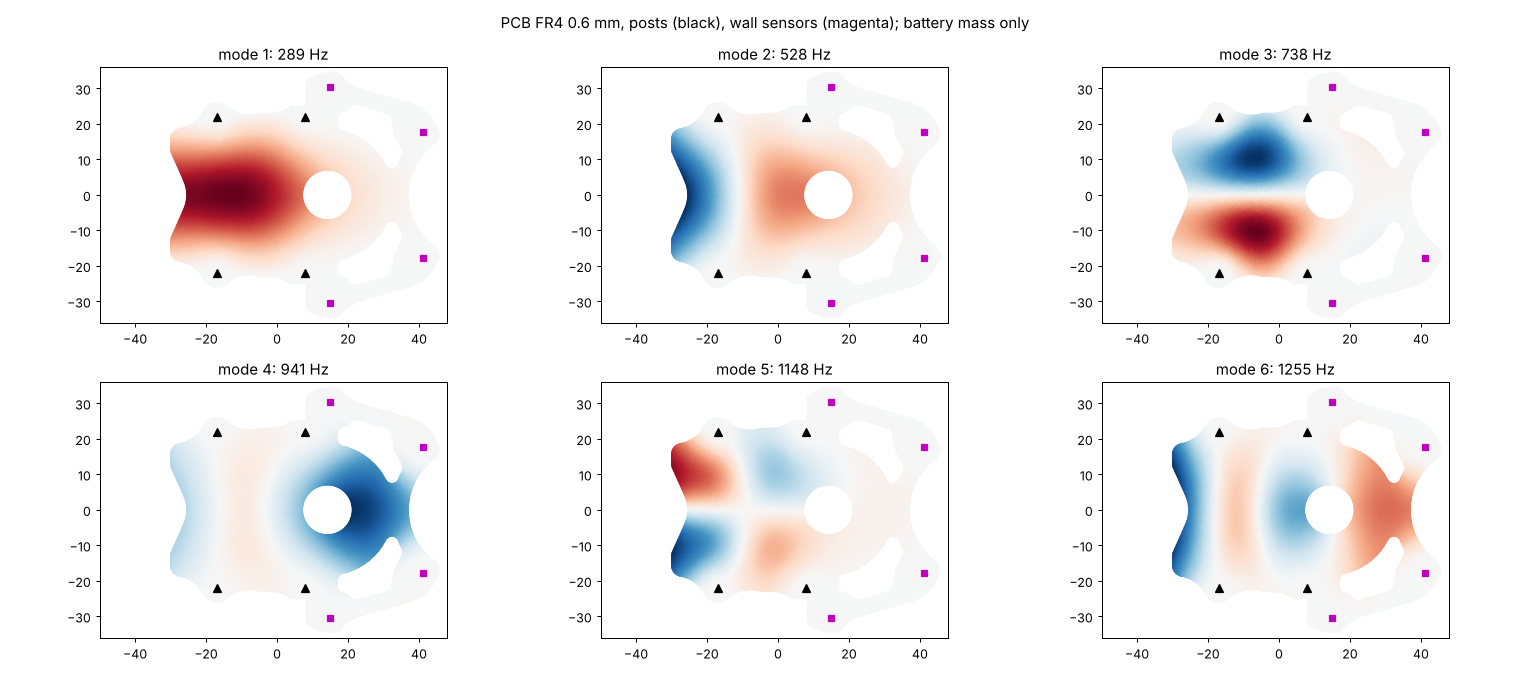
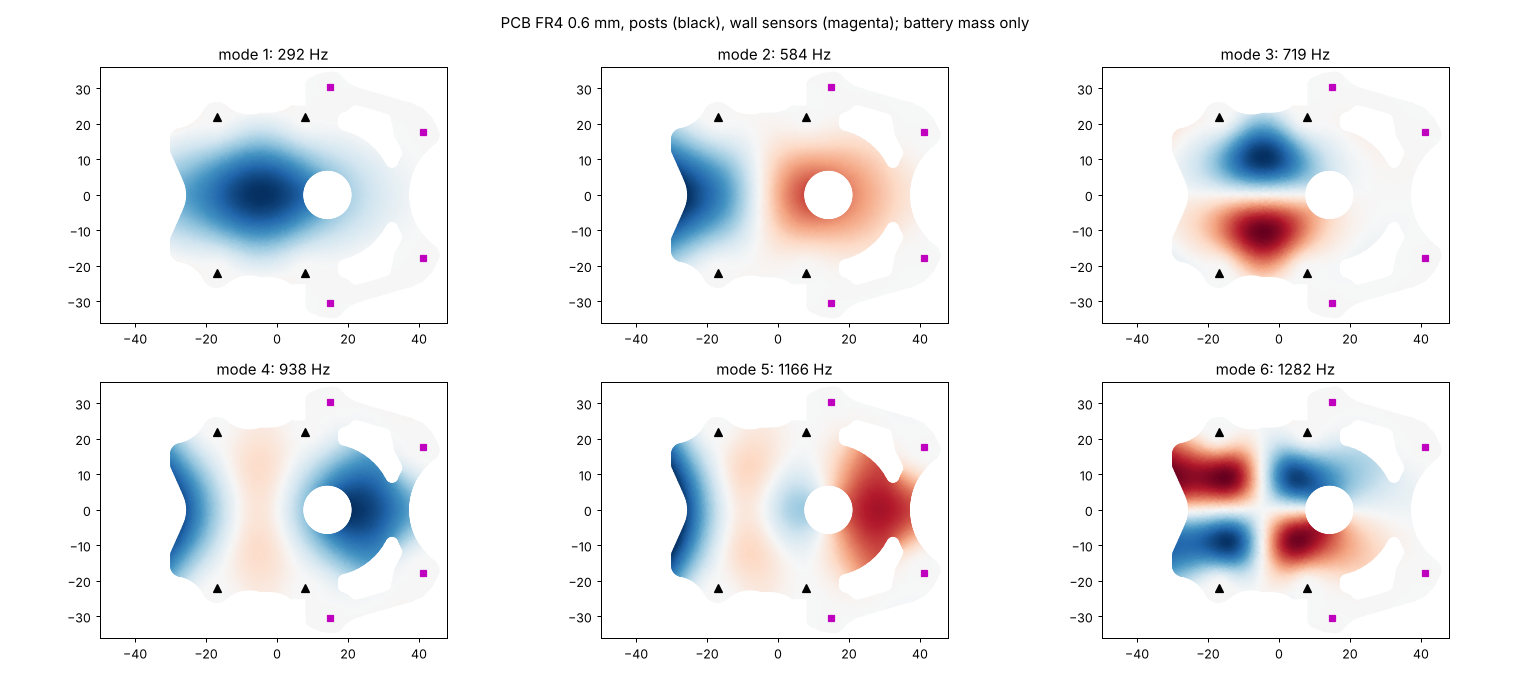
電池を5mm前へ(中心 x −10 → −5)
- 重心 x −0.57 → +0.74mm(車軸の前)、慣性モーメント 274 → 263 g·cm²
- 基板の外形は変わらない(電池は基板の上に全部載る)。基板の DXF の REF の電池の枠を更新
- 基板の振動(ホルダを当てた形)1次 289 → 292Hz

Claude-Session: https://claude.ai/code/session_0156Q4g8mrzo4MjueC94bbUc

diff --git a/mechanical/vehicle/pcb_shape.py b/mechanical/vehicle/pcb_shape.py
@@ -41,7 +41,7 @@ VER = 'v16'
 FAN = (dz.FAN_X, 0.0)
 HUB_HOLE = 7.0          # ファンのハブ(半径5.35、z 16.0 まで)とモーターを通す穴の半径
 HOLE = 2.2              # M2 の通し穴
-REAR, FRONT = -30.0, 47.5        # 後ろの縁(電池の後ろの端 −21.25 から約9mm。LED を並べる)、前の縁
+REAR, FRONT = -30.0, 47.5        # 後ろの縁(LED を並べる。電池の後ろの端は v16 まで −21.25、2026-10-31 から −16.25)、前の縁
 FRAME_MARGIN = 3.0      # 外形はフレームの外形と平行に 3mm 内側(v8 は 1.5mm)
 NOTCH_C, NOTCH_R = (51.0, 0.0), 20.0   # 前の切り欠き(クワガタの腕の間)の円弧。x 31 まで(ファンの輪の前の端は x 31.7。v8 は半径 19)
 REAR_Y = 26.5           # 後ろ(車輪より後ろ)の横の縁 |y|
@@ -50,7 +50,7 @@ R_IN, R_OUT = 3.0, 5.0  # へこんだ角、出っ張った角の丸み(v8・v9)
 CORE_FAN_R = 14.0       # v10: 芯にするファンのまわりの円の半径
 NECK_W, R_HORN = 9.0, 7.0   # v10: センサと芯をつなぐ首の幅、角のつけ根の丸み(v11 も R_HORN でへこんだ角を丸める)
 NOTCH11_C, NOTCH11_R = (55.0, 0.0), 18.0   # v11: 前の切り欠きの円弧
-BAT = (-21.25, 1.25, 16.0)    # 電池(x0, x1, |y|)
+BAT = (-16.25, 6.25, 16.0)    # 電池(x0, x1, |y|)。2026-10-31 に 5mm 前へ(重心を車軸の前に。基板の外形は変わらない)
 BAT_WIN_M, BAT_WIN_R = 3.0, 3.0           # v12: 電池の下の窓(電池の縁から内側へ 3mm、角 R3)
 BAT_WIN = False                           # v13: 電池の下にはマイコンを置くので窓は開けない
 REAR_SIDE, REAR_LED, POST_BOSS, ENC_RIM, R_REAR, REAR_X = 17.0, 15.0, 4.0, 2.0, 3.0, 4.0   # v14: 後ろ(x < REAR_X)に残す所: 電池の下 |y|、LED の列 |y|、柱の耳の半径、エンコーダの穴のまわり、へこんだ角

diff --git a/mechanical/vehicle/pcb_dxf.py b/mechanical/vehicle/pcb_dxf.py
@@ -25,7 +25,8 @@ for (x, y) in dz.FAN_JOINTS:
     msp.add_circle((x, y), 2.0, dxfattribs=ref)                                      # ファンの台のねじの頭(基板の下、頭の上 z 12.4)
 for (x, y) in ps.SCREWS:
     msp.add_circle((x, y), 3.1, dxfattribs=ref)                                      # マウントの柱
-msp.add_lwpolyline([(-21.25, -16), (1.25, -16), (1.25, 16), (-21.25, 16)], close=True, dxfattribs=ref)   # 電池(基板の上)
+bx0, bx1, by = ps.BAT
+msp.add_lwpolyline([(bx0, -by), (bx1, -by), (bx1, by), (bx0, by)], close=True, dxfattribs=ref)   # 電池(基板の上)
 for i, (x, y) in enumerate(ps.LEDS):                                                 # UI の LED(v15 から 0402 として 1.0 × 0.5、長い方が y)
     msp.add_lwpolyline([(x - 0.25, y - 0.5), (x + 0.25, y - 0.5), (x + 0.25, y + 0.5), (x - 0.25, y + 0.5)], close=True, dxfattribs=ref)
 for (x0, x1, y0, y1) in ps.ENC:                                                      # エンコーダ基板を立てる所(基板の裏)
@@ -61,7 +62,7 @@ draw(bd, color='w', lw=1.2)
 for (x, y) in ps.SCREWS:
     ax.add_patch(plt.Circle((x, y), 3.1, fill=False, ec='#aaa', lw=0.5))
 ax.add_patch(plt.Circle(ps.FAN, 17.5, fill=False, ec='#aaa', lw=0.5, ls='--'))
-ax.add_patch(plt.Rectangle((-21.25, -16), 22.5, 32, fill=False, ec='#aaa', lw=0.5, ls='--')); ax.text(-20.5, 13.5, 'battery', color='#aaa', fontsize=8)
+ax.add_patch(plt.Rectangle((ps.BAT[0], -ps.BAT[2]), ps.BAT[1] - ps.BAT[0], 2 * ps.BAT[2], fill=False, ec='#aaa', lw=0.5, ls='--')); ax.text(ps.BAT[0] + 0.75, 13.5, 'battery', color='#aaa', fontsize=8)
 for (x0, x1, y0, y1) in ps.ENC: ax.add_patch(plt.Rectangle((x0, y0), x1 - x0, y1 - y0, fill=False, ec='#ddd', lw=0.8))
 for (x, y) in ps.LEDS: ax.add_patch(plt.Rectangle((x - 0.25, y - 0.5), 0.5, 1.0, fc='#ddd'))
 for nm, ((sx, sy), ang) in ps.SENS.items():

diff --git a/mechanical/vehicle/vehicle.py b/mechanical/vehicle/vehicle.py
@@ -52,7 +52,7 @@ Z_PCB = 13.6                 # 基板の下面(マウントのモーターの筒
 T_PCB = CFG['pcb_t']         # 基板の厚さ
 Z_PCBT = Z_PCB + T_PCB
 FAN = (dz.FAN_X, 0.0)        # ファンの中心
-BAT = dict(x=-10.0 if CFG.get('fan') == 'spider' else -5.0, lx=22.5, ly=32.0, lz=14.0)   # 電池: 1S 180mAh(7.5 × 32 × 14)× 3 を立てて並べる(MK3 の STEP の寸法)。v4 はファンの上の穴を避けて 5mm 後ろへ
+BAT = dict(x=-5.0, lx=22.5, ly=32.0, lz=14.0)   # 2026-10-31 に x −10 → −5(重心 −0.57 → +0.74mm)。 電池: 1S 180mAh(7.5 × 32 × 14)× 3 を立てて並べる(MK3 の STEP の寸法)。v4 はファンの上の穴を避けて 5mm 後ろへ
 
 # ---------------- 質量・密度 ----------------
 RHO = dict(carbon=1.55e-3, pc=1.4e-3, resin=1.2e-3, fr4=1.85e-3, steel=7.85e-3, ndfeb=7.5e-3, rubber=1.2e-3,

diff --git a/mechanical/vehicle/pcb_modes.py b/mechanical/vehicle/pcb_modes.py
@@ -24,7 +24,7 @@ cent = mesh.p[:, mesh.t].mean(axis=1)
 p, t = mesh.p, mesh.t
 a_ = p[:, t[1]] - p[:, t[0]]; b_ = p[:, t[2]] - p[:, t[0]]
 area = np.abs(a_[0] * b_[1] - a_[1] * b_[0]) / 2
-bat = (cent[0] >= -21.25) & (cent[0] <= 1.25) & (np.abs(cent[1]) <= 16.0)
+bat = (cent[0] >= ps.BAT[0]) & (cent[0] <= ps.BAT[1]) & (np.abs(cent[1]) <= ps.BAT[2])
 D = E * T_PCB**3 / (12 * (1 - nu**2)) * np.ones(t.shape[1])
 if BAT_STIFF:                                 # 電池を両面テープで貼り、電池の所は曲がらないとみなす(上限)
     D[bat] *= 1000

diff --git a/docs/vehicle.md b/docs/vehicle.md
@@ -23,7 +23,7 @@
 | ハブ | モーター(NFP-D8620)を縦に、前の面を下にして載せる(z 9.4)。**筒(穴φ8.6、z 9.4〜16.0)に上から圧入する**(2026-10-20。モーターマウントの軸受と同じく穴は寸法どおり。試しに印刷して、ゆるければ接着、きつければリーマで広げる)。それまでは筒に割りを入れ、横からナイロンのM2で締めていた |
 | フレームへの留め方 | **フレームには留めない**(2026-10-20)。モーターマウントの腕 (14, ±22) の2か所だけで持ち、輪はフレームの上に載せるだけ。羽根の推力と吸引で、台はフレームに押し付けられる向き。フレームの穴はマウントの4つだけになった(その前は前の耳 (33, 0) を下から鉄の低頭M2 L5で留めていた) |
 | 基板 | U字。モーターマウントの前後の耳の上の柱(z 13.6、4本)に載せ、鉄の低頭 M2 L5 で留める(柱にねじ山。2026-10-30 に、ねじは鉄の低頭 M2 L5 の1種類にそろえた)。**ファンの上は開けて**、吐き出した空気を上へ逃がす |
-| 電池 | ファンの上の穴をふさがないように、**5mm後ろ**へ(中心 x −10) |
+| 電池 | **中心 x −5**(x −16.25〜6.25、2026-10-31 に −10 から5mm前へ。重心を車軸の後ろ 0.57mm から前 0.74mm に。慣性モーメント 274 → 263 g·cm²。基板の外形は変わらない)。v4 のはじめはファンの上の穴を避けて −10 にしていたが、基板がファンの上を覆うようになったので前へ戻した |
 | 壁センサ | **ホルダに入れて基板の裏(下)に付ける**(2026-10-30、ToraNeko.Mk3 と同じ形、`mechanical/sensor_holder/`。z 3.3〜13.6、光は z 6.0(発光)・10.4(受光))。**2026-10-31 からホルダ v3: 下の端をフレームに当てる**(0.3mm に両面テープ。後ろへ 3.5mm の足でフレームの骨に当てる。基板の前の板をフレームで支え、横の壁センサの揺れ(148Hz)をなくす)。前の2本 (17, ±30.75) は外へ7°(フレームから出さずに一番外。斜めのとき柱にかかる)、横の2本 (42, ±16) は反対側へ63.0°(真横から 27°。左右で交差。区画の中心で反対側の前の柱の中心より前を見る)。位置はホルダの前の面の真ん中。それまでは基板に寝かせ、(12, ±30)・(41, ±24) |
 | 基板の形 | **基板 v16**(2026-10-30): v15 のへこんだ角を R10、出っ張った角を R3 で大きく丸め、なめらかな曲線にした(かっこよくするため)。面積約3,170mm²(v15 から +0.14g)。同じ日の **基板 v15**: UI の LED 7個を ToraNeko.Mk3 と同じ並びにし(左右の後ろの角に2個ずつ、後ろの V 字の切り欠きの先に3個)、後ろの縁を V 字に切り欠いた(先は x −24.5)。面積約3,040mm²。同じ日の **基板 v14**(軽量化): v13 の後ろ(x < 4)を、電池の下(マイコン、|y| ≤ 17)・後ろの LED の列・柱のまわり(半径 4 の耳)・エンコーダ基板の穴のまわりだけ残して削った。へこんだ角 R3。面積約3,050mm²(v13 から −0.44g)。同じ日の **基板 v13**: v11 から、前と横のセンサの間のポケット(外の縁・ファンのまわり・センサのまわりに 4.5mm 残す)をくり抜いた。電池の下にはマイコンを置くので抜かない。面積約3,450mm²(v11 から −0.38g)。同じ日の **基板 v12** は電池の下の窓(x −18.25〜−1.75、|y| ≤ 13)も抜いた(約3,020mm²、−0.85g)。同じ日の **基板 v11**(振動対策): 左右それぞれ前と横の壁センサの間を埋め(横の縁はまっすぐ)、前の切り欠きは小さな円弧(中心 (55, 0)、半径 18)。x −30〜45.7、|y| ≤ 34.7、面積約3,740mm²(穴を除く)。同じ日の **基板 v10**、`mechanical/pcb/`、形は`pcb_shape.py`): 後ろの長方形とファンのまわりの円を芯にし、4つの壁センサの所を幅 9mm の首でつないだ形(前の腕はセンサの所だけ残る角)。つけ根 R7。x −30〜41.5、|y| ≤ 31.3、面積約3,210mm²。同じ日の **基板 v9**: フレームと平行な八角形(フレームの 3mm 内側)、前の切り欠きは大きな円弧(中心 (51, 0)、半径 20)、後ろの横は |y| 26.5 でまっすぐ、車輪の所は四角く切る。へこんだ角 R3、出っ張った角 R5。x −30〜42.0、|y| ≤ 32、面積約3,420mm²。同じ日の v8 はフレームの 1.5mm 内側・半径 19 で約3,870mm²。それまでの **基板 v7**(同じ日): 後ろは長方形(x −30、|y| 26)、前は後ろの長方形と4つのセンサ(ホルダと足の穴)を囲む凸の形をフレームの 1mm 内側で切り、車輪の所と前の腕の間だけへこませる。角は R3。x −30〜47.5、|y| ≤ 33、面積約3,540mm²。それまでの **基板 v6**(2026-10-29): 前はクワガタの形(左右の腕の間を x 32 より前で開ける)。ファンの上はハブとモーターを通す穴(半径7)だけ開けて覆う。後ろは x −30 まで広げ、後ろの縁に UI の LED 7個。x −30〜45、面積約3,500mm²、部品込み6.43g。吸引の空気は輪の上と基板の間の 3.6mm のすき間と前の切り欠きから出る。それまでは U字(ファンの上を半径17.5で開け、後ろは x −19、約2,000mm²)、v5(後ろ x −46、前もつなげる、約4,800mm²) |
 
@@ -34,7 +34,7 @@
 
 ### 基板の振動(2026-10-30、基板 v16)
 
-基板 v16(0.6mm、なめらかな曲線): **1次 148Hz**、2次 250Hz、3次 289Hz。図は`img/vehicle/pcb_modes_v16_0.6_mass.png`。
+基板 v16(0.6mm、なめらかな曲線): **1次 148Hz**、2次 250Hz、3次 289Hz。図は`img/vehicle/pcb_modes_v16_0.6_mass.png`。 電池を5mm前にした(2026-10-31)あと、ホルダをフレームに当てた形(`pcb_modes.py 0.6 holders`)の1次は 292Hz(前は 289Hz)。
 
 基板 v15(0.6mm、後ろを V 字に): **1次 146Hz**、2次 247Hz、3次 275Hz。図は`img/vehicle/pcb_modes_v15_0.6_mass.png`。
 

diff --git a/mechanical/pcb/README.md b/mechanical/pcb/README.md
@@ -8,7 +8,7 @@
 |---|---|
 | OUTLINE | 外形(直線と円弧)、くり抜き(前と横のセンサの間のポケット2つ)、ハブの穴、壁センサのホルダのほぞの穴(3.2 × 3.2mm、角 R0.5、4つ)。x −30.0〜45.6、y ±34.6、面積約 3,110mm²(穴を除く) |
 | HOLES | M2 の通し穴 φ2.2 × 4: マウントの柱 (−17, ±22)・(8, ±22)。柱にねじ山を切り、上から鉄の低頭 M2 L5 で留める(ねじは1種類) |
-| REF | 参考(切らない): ファンの輪の外側(半径17.5)とハブ(半径5.35)、マウントの柱(半径3.1)、ファンの台のねじの頭 (14, ±22)、電池(x −21.25〜1.25、y ±16)、UI の LED 7個(0402。ToraNeko.Mk3 と同じ並び: 左右の角 (−28.15, ±14.3・±16.2)、V 字の切り欠きの先 (−23.1, ±1.9)・(−22.6, 0))、エンコーダ基板が通る所(ENC、x −2.65〜2.65、y ±20.4〜21.0)、壁センサのホルダ(6.0 × 4.04mm)と足の穴(φ0.9、パッド φ1.6)と光(前 (17, ±30.75) は外へ7°、横 (42, ±16) は反対側の前の柱の前半分へ63.0°。位置はホルダの前の面の真ん中) |
+| REF | 参考(切らない): ファンの輪の外側(半径17.5)とハブ(半径5.35)、マウントの柱(半径3.1)、ファンの台のねじの頭 (14, ±22)、電池(x −16.25〜6.25、y ±16。2026-10-31 に5mm前へ)、UI の LED 7個(0402。ToraNeko.Mk3 と同じ並び: 左右の角 (−28.15, ±14.3・±16.2)、V 字の切り欠きの先 (−23.1, ±1.9)・(−22.6, 0))、エンコーダ基板が通る所(ENC、x −2.65〜2.65、y ±20.4〜21.0)、壁センサのホルダ(6.0 × 4.04mm)と足の穴(φ0.9、パッド φ1.6)と光(前 (17, ±30.75) は外へ7°、横 (42, ±16) は反対側の前の柱の前半分へ63.0°。位置はホルダの前の面の真ん中) |
 
 ## 変更
 
@@ -88,7 +88,7 @@
 - **壁センサのホルダは基板の裏(下)に付ける**(4つ、z 3.7〜13.6。2026-10-30): ほぞの穴は OUTLINE に描いてある。ホルダの後ろに足の穴が2列(受光、発光の順)。裏のホルダの所と、その前の光の通り道(z 6.0・10.4)には部品を置かない
 
 - **基板の裏**: ファンの輪の上(z 10.0、基板まで 3.6mm)、ファンの台の腕(z 10.8、2.8mm)、ファンの台のねじの頭 (14, ±22)(z 12.4、1.2mm)。この上の裏には背の高い部品を置けない。吸引の空気の通り道でもあるので、ファンの上の裏はなるべく平らに
-- **電池**(基板の上、x −21.25〜1.25)の下も部品を置けない(表側)
+- **電池**(基板の上、**x −16.25〜6.25**。2026-10-31 に重心を前にするため −21.25〜1.25 から5mm前へ。外形はそのまま)の下も部品を置けない(表側)。マイコンなど裏の部品の置き場所も5mm前にずれる
 - 壁センサの光の通り道(REF の線)に背の高い部品を置かない
 - ファンの台を外すときは、先に基板を外す(ファンの台のねじが基板の真下にある)
 - 振動(`docs/vehicle.md` の「基板の振動」): 前の角の腕が 203Hz、264Hz で揺れやすい
